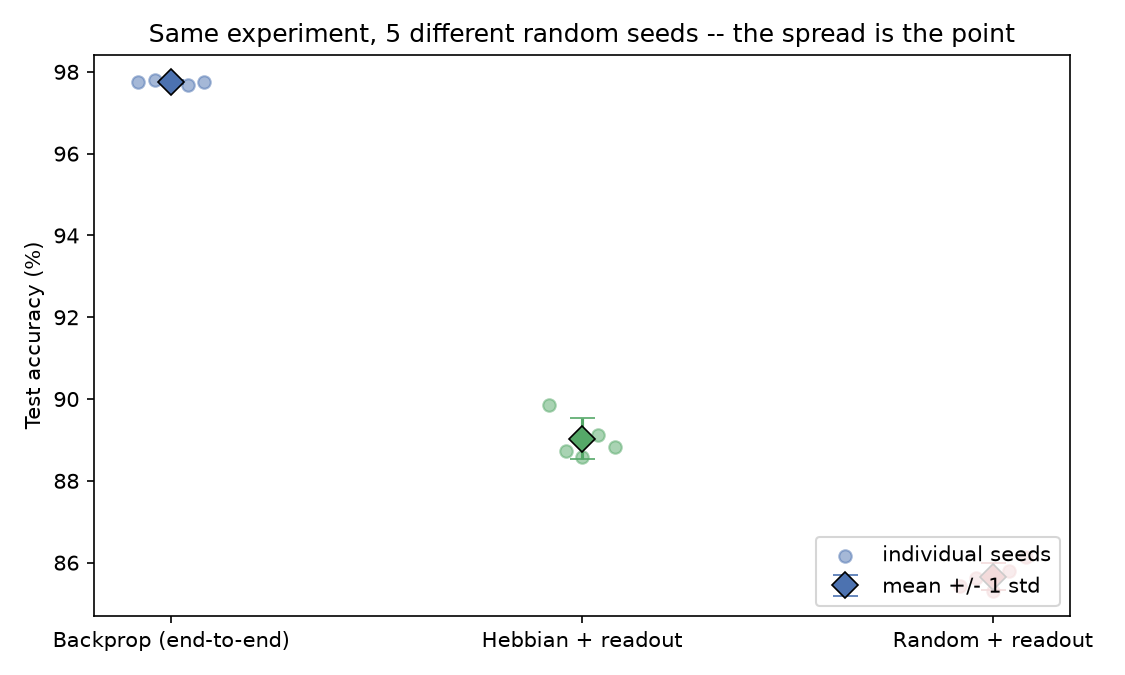
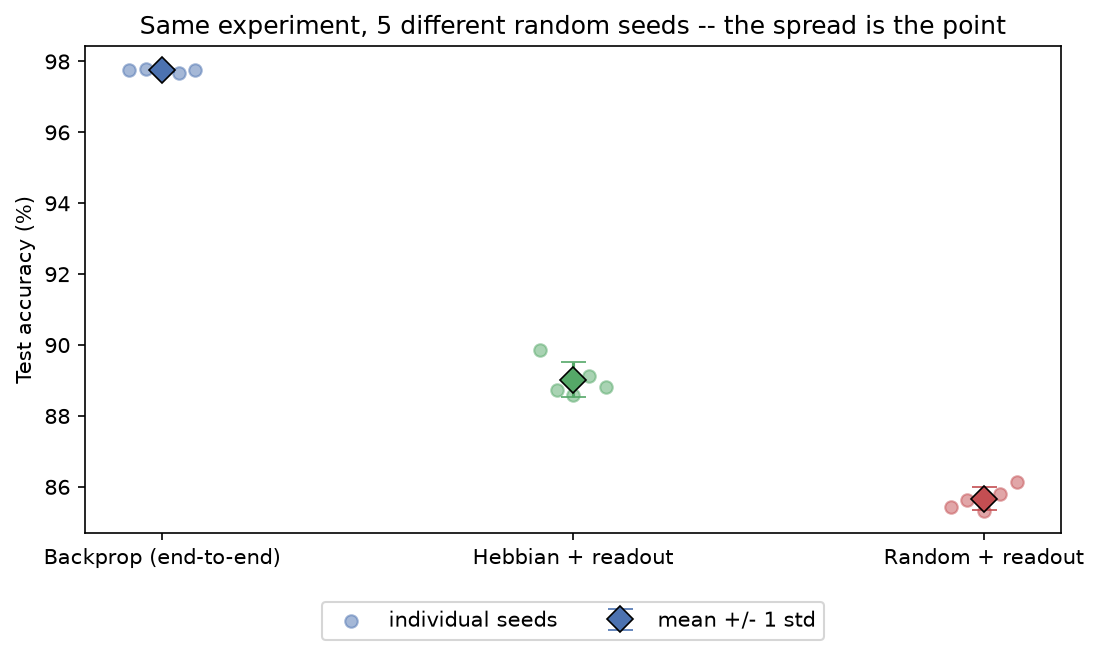
Move seed-variability legend below the axes to stop covering data
Same issue as the catastrophic-forgetting charts: the "lower right"
in-plot legend landed on top of whichever condition's dots/diamond
happened to fall in that corner -- Random on both MNIST and (worse)
Fashion-MNIST. Moved below the axes via bbox_to_anchor, matching the
fix already applied to the forgetting figures.

Changed region(s): [[0.0, 0.0305, 0.9909, 0.9771], [0.4645, 0.5496, 0.5574, 0.7023], [0.4645, 0.5191, 0.4954, 0.5496]]

diff --git a/models/common.py b/models/common.py
@@ -511,9 +511,12 @@ def run_seed_variability_experiment(
     ax.set_xticklabels([c.replace("\n", " ") for c in conditions])
     ax.set_ylabel("Test accuracy (%)")
     ax.set_title(title)
-    ax.legend(loc="lower right", frameon=True)
+    # Below the axes, not inside the plot -- an in-plot corner can land on top
+    # of a condition's dots/diamond depending on where that condition's
+    # accuracy happens to fall, which it did here.
+    ax.legend(loc="upper center", bbox_to_anchor=(0.5, -0.12), ncol=2, frameon=True)
     plt.tight_layout()
-    plt.savefig(f"output/{output_name}", dpi=150)
+    plt.savefig(f"output/{output_name}", dpi=150, bbox_inches="tight")
     plt.close()
     print(f"\nSaved: output/{output_name}")
 